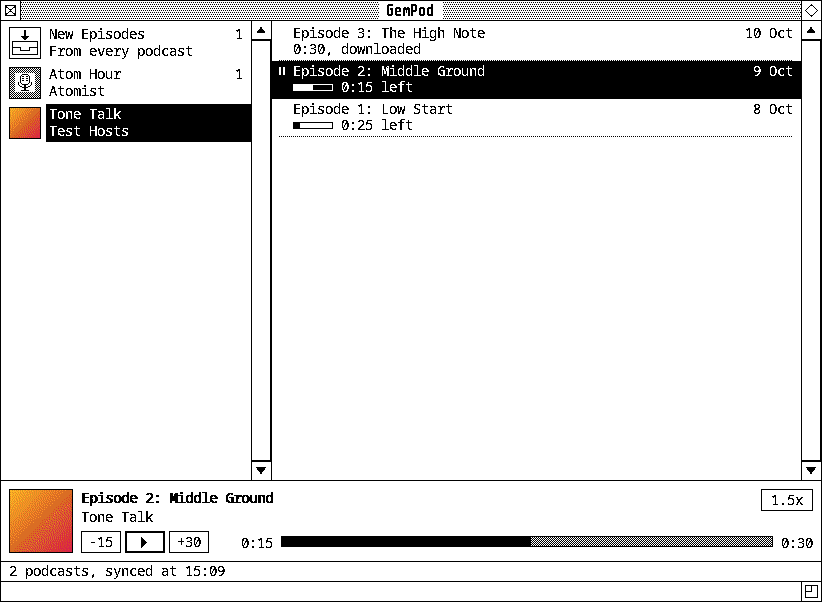
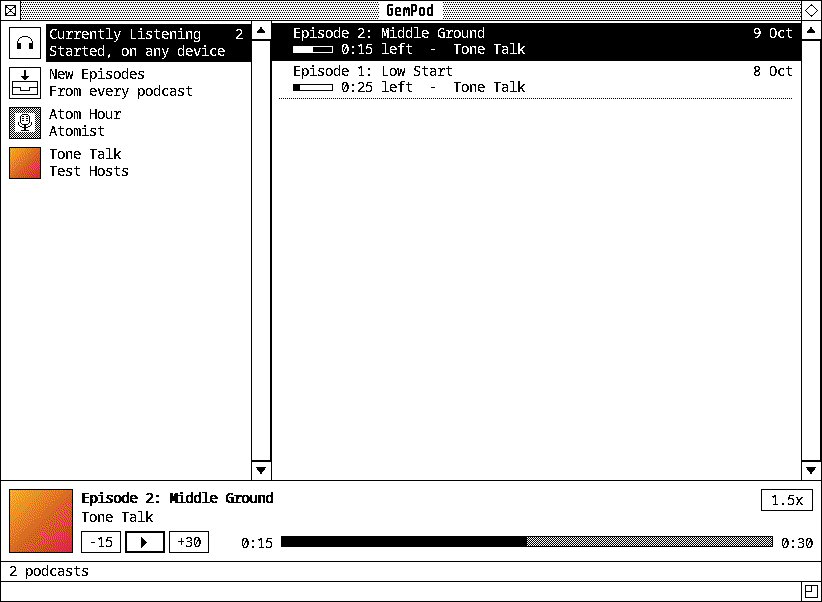
GemPod: Currently Listening, every episode started and not finished
At the top of the list, above New Episodes: the episodes begun here or
on another device (as synced) and not finished, the one listened to
last first. GemPod opens on it when there's anything there.

Changed region(s): [[0.0, 0.0299, 0.9732, 0.299], [0.1217, 0.9269, 0.2737, 0.9568]]

diff --git a/pod/gempod.c b/pod/gempod.c
@@ -54,7 +54,11 @@
 
 #define MPRIS_PATH "/org/mpris/MediaPlayer2"
 #define MPRIS_NAME "org.mpris.MediaPlayer2.gempod"
-#define NEW_EPISODES ""              /* the left list's first row */
+/* The left list's first rows, before the podcasts: what's started (from
+ * any device, as synced), then what's new. */
+#define LISTENING "\001listening"
+#define NEW_EPISODES ""
+#define TOP_ROWS 2
 
 static const double speeds[] = { 0.8, 1.0, 1.2, 1.5, 1.75, 2.0 };
 
@@ -75,7 +79,8 @@ static struct {
 	SoupSession *soup;
 
 	GPtrArray *podcasts;       /* struct podcast */
-	char *picked;              /* the podcast shown: a url, or NEW_EPISODES */
+	char *picked;              /* a podcast's url, LISTENING or NEW_EPISODES */
+	int started_count;         /* episodes in Currently Listening */
 	GPtrArray *episodes;       /* struct episode, of the picked */
 	int cursor;                /* in episodes */
 	bool right_focus;
@@ -154,6 +159,21 @@ static struct podcast *podcast_of(const char *url) {
 
 static bool showing_new(void) {
 	return ui.picked == NULL || strcmp(ui.picked, NEW_EPISODES) == 0;
+}
+
+static bool showing_listening(void) {
+	return ui.picked != NULL && strcmp(ui.picked, LISTENING) == 0;
+}
+
+/* Episodes from every podcast, not one's. */
+static bool showing_all(void) {
+	return showing_new() || showing_listening();
+}
+
+/* The left list's row i: LISTENING, NEW_EPISODES or a podcast's url. */
+static const char *left_row(int i) {
+	return i == 0 ? LISTENING : i == 1 ? NEW_EPISODES :
+		((struct podcast *)ui.podcasts->pdata[i - TOP_ROWS])->url;
 }
 
 static struct episode *cursor_episode(void) {
@@ -451,6 +471,41 @@ static void no_art(cairo_t *cr, int x, int y, int size) {
 	}
 }
 
+/* Currently Listening's picture: headphones. */
+static const char *const phones[] = {
+	".....######.....",
+	"...##......##...",
+	"..#..........#..",
+	".#............#.",
+	".#............#.",
+	"#..............#",
+	"#..............#",
+	"####........####",
+	"#..#........#..#",
+	"#..#........#..#",
+	"#..#........#..#",
+	"#..#........#..#",
+	"####........####",
+};
+
+static void headphones(cairo_t *cr, int x, int y) {
+	gem_white(cr);
+	gem_fill(cr, x, y, ART_SMALL, ART_SMALL);
+	gem_black(cr);
+	int n = G_N_ELEMENTS(phones), w = (int)strlen(phones[0]);
+	int ox = x + (ART_SMALL - w) / 2, oy = y + (ART_SMALL - n) / 2;
+	for (int r = 0; r < n; r++) {
+		for (int c = 0; c < w; c++) {
+			if (phones[r][c] == '#') {
+				gem_fill(cr, ox + c, oy + r, 1, 1);
+			}
+		}
+	}
+	/* Its cups, filled. */
+	gem_fill(cr, ox + 1, oy + 8, 2, 4);
+	gem_fill(cr, ox + w - 3, oy + 8, 2, 4);
+}
+
 /* The New Episodes row's picture: an in-tray. */
 static void tray(cairo_t *cr, int x, int y) {
 	gem_white(cr);
@@ -492,7 +547,7 @@ static double rscroll(void) {
 }
 
 static int n_left(void) {
-	return 1 + (int)ui.podcasts->len;
+	return TOP_ROWS + (int)ui.podcasts->len;
 }
 
 static void fit(GtkWidget *area, GtkAdjustment *adj, int rows, int row_h) {
@@ -513,13 +568,17 @@ static void paint_left(cairo_t *cr, int w, int h, void *data) {
 		if (y + PODCAST_H < 0 || y > h) {
 			continue;
 		}
-		struct podcast *p = i > 0 ? ui.podcasts->pdata[i - 1] : NULL;
-		bool picked = p != NULL ? g_strcmp0(ui.picked, p->url) == 0 : showing_new();
+		struct podcast *p = i >= TOP_ROWS ? ui.podcasts->pdata[i - TOP_ROWS] : NULL;
+		bool picked = g_strcmp0(ui.picked, left_row(i)) == 0;
 		int ax = GEM_PAD, ay = y + (PODCAST_H - ART_SMALL) / 2;
 		if (p != NULL) {
 			picture(cr, p->image, ax, ay, ART_SMALL);
 		} else {
-			tray(cr, ax, ay);
+			if (i == 0) {
+				headphones(cr, ax, ay);
+			} else {
+				tray(cr, ax, ay);
+			}
 			gem_frame(cr, ax, ay, ART_SMALL, ART_SMALL, 1);
 		}
 		int tx = ax + ART_SMALL + GEM_PAD, tw = w - tx - GEM_PAD;
@@ -530,8 +589,9 @@ static void paint_left(cairo_t *cr, int w, int h, void *data) {
 		} else {
 			gem_black(cr);
 		}
-		const char *name = p != NULL ? podcast_name(p) : "New Episodes";
-		int fresh = p != NULL ? p->fresh : fresh_total;
+		const char *name = p != NULL ? podcast_name(p) :
+			i == 0 ? "Currently Listening" : "New Episodes";
+		int fresh = p != NULL ? p->fresh : i == 0 ? ui.started_count : fresh_total;
 		char *count = fresh > 0 ? g_strdup_printf("%d", fresh) : NULL;
 		int cw = count != NULL ? (int)gem_text_width(cr, count) + GEM_PAD : 0;
 		gem_text_clipped(cr, name, tx, y + 2, tw - cw, GEM_ROW_H);
@@ -539,7 +599,8 @@ static void paint_left(cairo_t *cr, int w, int h, void *data) {
 			gem_text(cr, count, w - GEM_PAD - (int)gem_text_width(cr, count), y + 2,
 				GEM_ROW_H);
 		}
-		const char *second = p == NULL ? "From every podcast" :
+		const char *second = i == 0 ? "Started, on any device" :
+			p == NULL ? "From every podcast" :
 			p->fetched == 0 ? "Not read yet" : p->author;
 		if (second != NULL) {
 			gem_text_clipped(cr, second, tx, y + 2 + GEM_ROW_H - 2, tw, GEM_ROW_H);
@@ -548,10 +609,10 @@ static void paint_left(cairo_t *cr, int w, int h, void *data) {
 		gem_black(cr);
 	}
 	if (ui.podcasts->len == 0) {
-		gem_text(cr, "No podcasts yet:", GEM_PAD, 2 + PODCAST_H + GEM_PAD, GEM_ROW_H);
-		gem_text(cr, "File > Add Podcast.", GEM_PAD,
-			2 + PODCAST_H + GEM_PAD + GEM_ROW_H, GEM_ROW_H);
-		gem_grey_out(cr, 0, 2 + PODCAST_H + GEM_PAD, w, 2 * GEM_ROW_H);
+		int ty = 2 + TOP_ROWS * PODCAST_H + GEM_PAD - y0;
+		gem_text(cr, "No podcasts yet:", GEM_PAD, ty, GEM_ROW_H);
+		gem_text(cr, "File > Add Podcast.", GEM_PAD, ty + GEM_ROW_H, GEM_ROW_H);
+		gem_grey_out(cr, 0, ty, w, 2 * GEM_ROW_H);
 	}
 }
 
@@ -567,7 +628,8 @@ static void paint_right(cairo_t *cr, int w, int h, void *data) {
 	gem_black(cr);
 	gem_fill(cr, 0, 0, 1, h);   /* the line between the lists */
 	if (ui.episodes->len == 0) {
-		const char *s = showing_new() ? "Nothing new." : "No episodes.";
+		const char *s = showing_listening() ? "Nothing started." :
+			showing_new() ? "Nothing new." : "No episodes.";
 		gem_text(cr, s, (w - (int)gem_text_width(cr, s)) / 2, h / 3, GEM_ROW_H);
 		gem_grey_out(cr, 1, h / 3, w - 1, GEM_ROW_H);
 		return;
@@ -626,7 +688,7 @@ static void paint_right(cairo_t *cr, int w, int h, void *data) {
 		} else if (ui.downloading != NULL && strcmp(ui.downloading, e->url) == 0) {
 			g_string_append(s, s->len > 0 ? ", downloading..." : "Downloading...");
 		}
-		if (showing_new() && e->podcast_title != NULL) {
+		if (showing_all() && e->podcast_title != NULL) {
 			g_string_append_printf(s, "%s%s", s->len > 0 ? "  -  " : "",
 				e->podcast_title);
 		}
@@ -800,7 +862,8 @@ static void alert(enum gem_alert_icon icon, const char *text) {
 static void load_episodes(void) {
 	char *keep = cursor_episode() != NULL ? g_strdup(cursor_episode()->url) : NULL;
 	g_clear_pointer(&ui.episodes, g_ptr_array_unref);
-	ui.episodes = store_episodes(showing_new() ? NULL : ui.picked);
+	ui.episodes = showing_listening() ? store_episodes_started() :
+		store_episodes(showing_new() ? NULL : ui.picked);
 	ui.cursor = -1;
 	for (guint i = 0; keep != NULL && i < ui.episodes->len; i++) {
 		if (strcmp(((struct episode *)ui.episodes->pdata[i])->url, keep) == 0) {
@@ -814,7 +877,10 @@ static void load_episodes(void) {
 static void reload(void) {
 	g_clear_pointer(&ui.podcasts, g_ptr_array_unref);
 	ui.podcasts = store_podcasts();
-	if (!showing_new() && podcast_of(ui.picked) == NULL) {
+	GPtrArray *started = store_episodes_started();
+	ui.started_count = (int)started->len;
+	g_ptr_array_unref(started);
+	if (!showing_all() && podcast_of(ui.picked) == NULL) {
 		g_free(ui.picked);
 		ui.picked = g_strdup(NEW_EPISODES);
 	}
@@ -1696,7 +1762,7 @@ static void remove_answered(int button, void *data) {
 }
 
 static void remove_podcast(void) {
-	if (showing_new()) {
+	if (showing_all()) {
 		return;
 	}
 	struct podcast *p = podcast_of(ui.picked);
@@ -1891,7 +1957,7 @@ enum {
 static void build_menus(struct app_menu *m, void *data) {
 	struct episode *e = cursor_episode();
 	uint32_t ep = e != NULL ? 0 : APP_MENU_DISABLED;
-	uint32_t pod = showing_new() ? APP_MENU_DISABLED : 0;
+	uint32_t pod = showing_all() ? APP_MENU_DISABLED : 0;
 	app_menu_add_menu(m, "File");
 	app_menu_add_item(m, ACT_ADD, "Add Podcast...", "^N", 0);
 	app_menu_add_item(m, ACT_IMPORT, "Import OPML...", NULL, 0);
@@ -1965,7 +2031,7 @@ static void run(int id) {
 	case ACT_SYNC: sync_now(); break;
 	case ACT_SETTINGS: show_settings(); break;
 	case ACT_QUIT: g_application_quit(G_APPLICATION(ui.app)); break;
-	case ACT_REFRESH: if (!showing_new()) refresh(ui.picked); break;
+	case ACT_REFRESH: if (!showing_all()) refresh(ui.picked); break;
 	case ACT_ALL_PLAYED:
 		for (guint i = 0; i < ui.episodes->len; i++) {
 			struct episode *x = ui.episodes->pdata[i];
@@ -2011,10 +2077,9 @@ static void left_pressed(GtkGestureClick *g, int n, double x, double y,
 	if (i < 0 || i >= n_left()) {
 		return;
 	}
-	pick_podcast(i == 0 ? NEW_EPISODES :
-		((struct podcast *)ui.podcasts->pdata[i - 1])->url);
+	pick_podcast(left_row(i));
 	if (gtk_gesture_single_get_current_button(GTK_GESTURE_SINGLE(g)) ==
-			GDK_BUTTON_SECONDARY && i > 0) {
+			GDK_BUTTON_SECONDARY && i >= TOP_ROWS) {
 		gem_popup_clear(ui.lpopup);
 		gem_popup_add(ui.lpopup, ACT_REFRESH, "Refresh", NULL, 0);
 		gem_popup_add(ui.lpopup, ACT_ALL_PLAYED, "Mark All Played", NULL, 0);
@@ -2143,15 +2208,13 @@ static void move_cursor(int to) {
 		app_menu_update(ui.menu);
 		return;
 	}
-	int i = CLAMP(to, 0, n_left() - 1);
-	pick_podcast(i == 0 ? NEW_EPISODES :
-		((struct podcast *)ui.podcasts->pdata[i - 1])->url);
+	pick_podcast(left_row(CLAMP(to, 0, n_left() - 1)));
 }
 
 static int left_index(void) {
-	for (guint i = 0; !showing_new() && i < ui.podcasts->len; i++) {
-		if (strcmp(((struct podcast *)ui.podcasts->pdata[i])->url, ui.picked) == 0) {
-			return (int)i + 1;
+	for (int i = 0; i < n_left(); i++) {
+		if (g_strcmp0(left_row(i), ui.picked) == 0) {
+			return i;
 		}
 	}
 	return 0;
@@ -2561,6 +2624,13 @@ static void startup(GApplication *app, gpointer data) {
 		g_free(last);
 	}
 	ui.podcasts = store_podcasts();
+	/* What you're in the middle of first, if anything. */
+	GPtrArray *started = store_episodes_started();
+	if (started->len > 0) {
+		g_free(ui.picked);
+		ui.picked = g_strdup(LISTENING);
+	}
+	g_ptr_array_unref(started);
 	ui.episodes = store_episodes(NULL);
 	mpris_start();
 	g_timeout_add(500, tick, NULL);

diff --git a/pod/store.c b/pod/store.c
@@ -273,6 +273,18 @@ GPtrArray *store_episodes(const char *podcast) {
 	return a;
 }
 
+GPtrArray *store_episodes_started(void) {
+	GPtrArray *a = g_ptr_array_new_with_free_func((GDestroyNotify)episode_free);
+	sqlite3_stmt *st = prepare("SELECT " EPISODE_COLUMNS " FROM episodes e "
+		"JOIN podcasts p ON p.url = e.podcast WHERE e.position > 0 AND NOT e.played "
+		"ORDER BY e.action_ts DESC, e.published DESC");
+	while (st != NULL && sqlite3_step(st) == SQLITE_ROW) {
+		g_ptr_array_add(a, episode_row(st));
+	}
+	sqlite3_finalize(st);
+	return a;
+}
+
 struct episode *store_episode(const char *url) {
 	sqlite3_stmt *st = prepare("SELECT " EPISODE_COLUMNS " FROM episodes e "
 		"LEFT JOIN podcasts p ON p.url = e.podcast WHERE e.url = ?");

diff --git a/pod/store.h b/pod/store.h
@@ -47,6 +47,9 @@ void podcast_free(struct podcast *p);
 /* ---- Episodes ---- */
 /* podcast NULL: the fresh ones from every podcast, newest first. */
 GPtrArray *store_episodes(const char *podcast);
+/* Started and not finished, here or on another device (as synced): the
+ * ones listened to last first. */
+GPtrArray *store_episodes_started(void);
 struct episode *store_episode(const char *url);
 /* From the feed: added if it's new (fresh unless first is set: a newly
  * added podcast has only its latest fresh), else its feed fields

diff --git a/site/src/content/apps/gempod.md b/site/src/content/apps/gempod.md
@@ -5,13 +5,15 @@ kind: app
 icon: microphone
 command: "gempod"
 screenshot: "/screenshots/gempod.png"
-alt: "GemPod: podcasts down the left with dithered artwork, a podcast's episodes with how much is left of each, and one playing at 1.5x"
+alt: "GemPod's Currently Listening: two started episodes with how much is left of each, one of them paused at 1.5x"
 order: 6
 ---
 
 GemPod (**Desk > Office**) is for podcasts. The podcasts are down the left,
-each with its artwork in the ST's colours, and **New Episodes**, every
-podcast's fresh ones, at the top. The one picked's episodes are on the right,
+each with its artwork in the ST's colours. At the top, **Currently Listening**
+has every episode you've started and not finished, here or on your phone (as
+synced), the one you listened to last first; GemPod opens on it when there's
+anything there. Under it, **New Episodes** has every podcast's fresh ones. The one picked's episodes are on the right,
 each with how long it is, how much is left, or Played. What's playing is along
 the bottom: back 15 seconds, play, on 30, a bar to go anywhere in it, and the
 speed, from 0.8x to 2x, faster or slower without changing the voice.

diff --git a/README.md b/README.md
@@ -1051,8 +1051,10 @@ are installed (`pacman -S ffmpeg pipewire`).
 ## GemPod
 
 GemPod (`gempod`, Desk > Office) is for podcasts. The podcasts are down
-the left, each with its artwork in the ST's colours (New Episodes, every
-podcast's fresh ones, at the top); the one picked's episodes are on the
+the left, each with its artwork in the ST's colours. At the top are
+Currently Listening, every episode you've started and not finished, here
+or on your phone (as synced), the last listened to first, and where it
+opens if there are any; and New Episodes, every podcast's fresh ones; the one picked's episodes are on the
 right, each with how long it is, how much is left, or Played; and what's
 playing is along the bottom: back 15 seconds, play, on 30, a bar to go
 anywhere in it, and the speed (0.8x to 2x, faster or slower without
